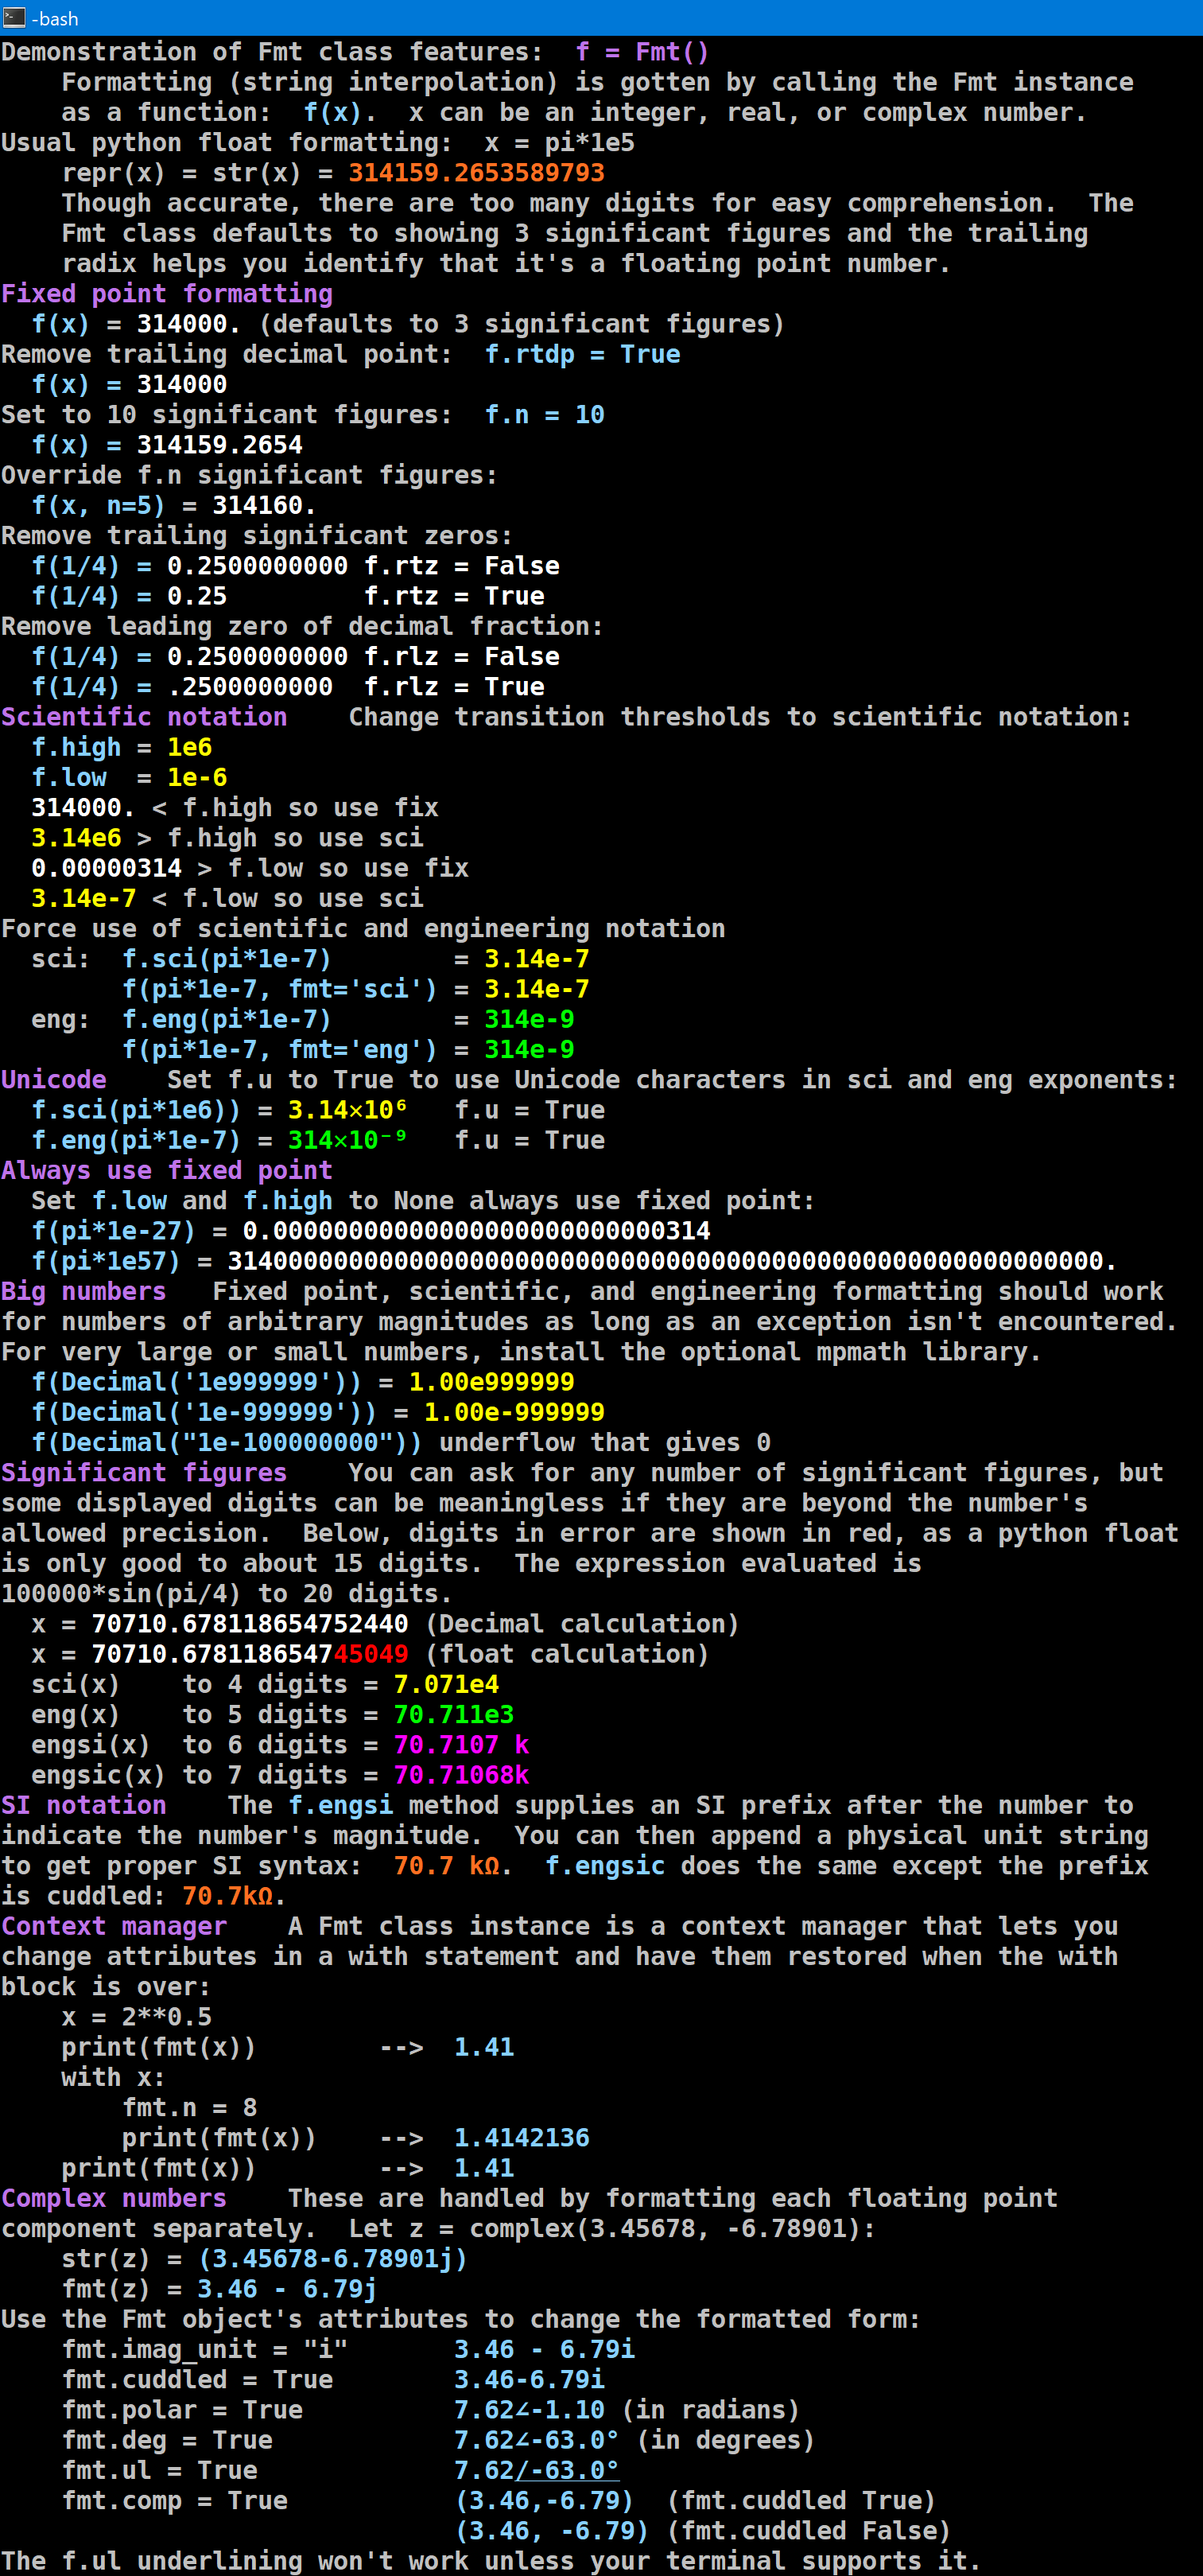
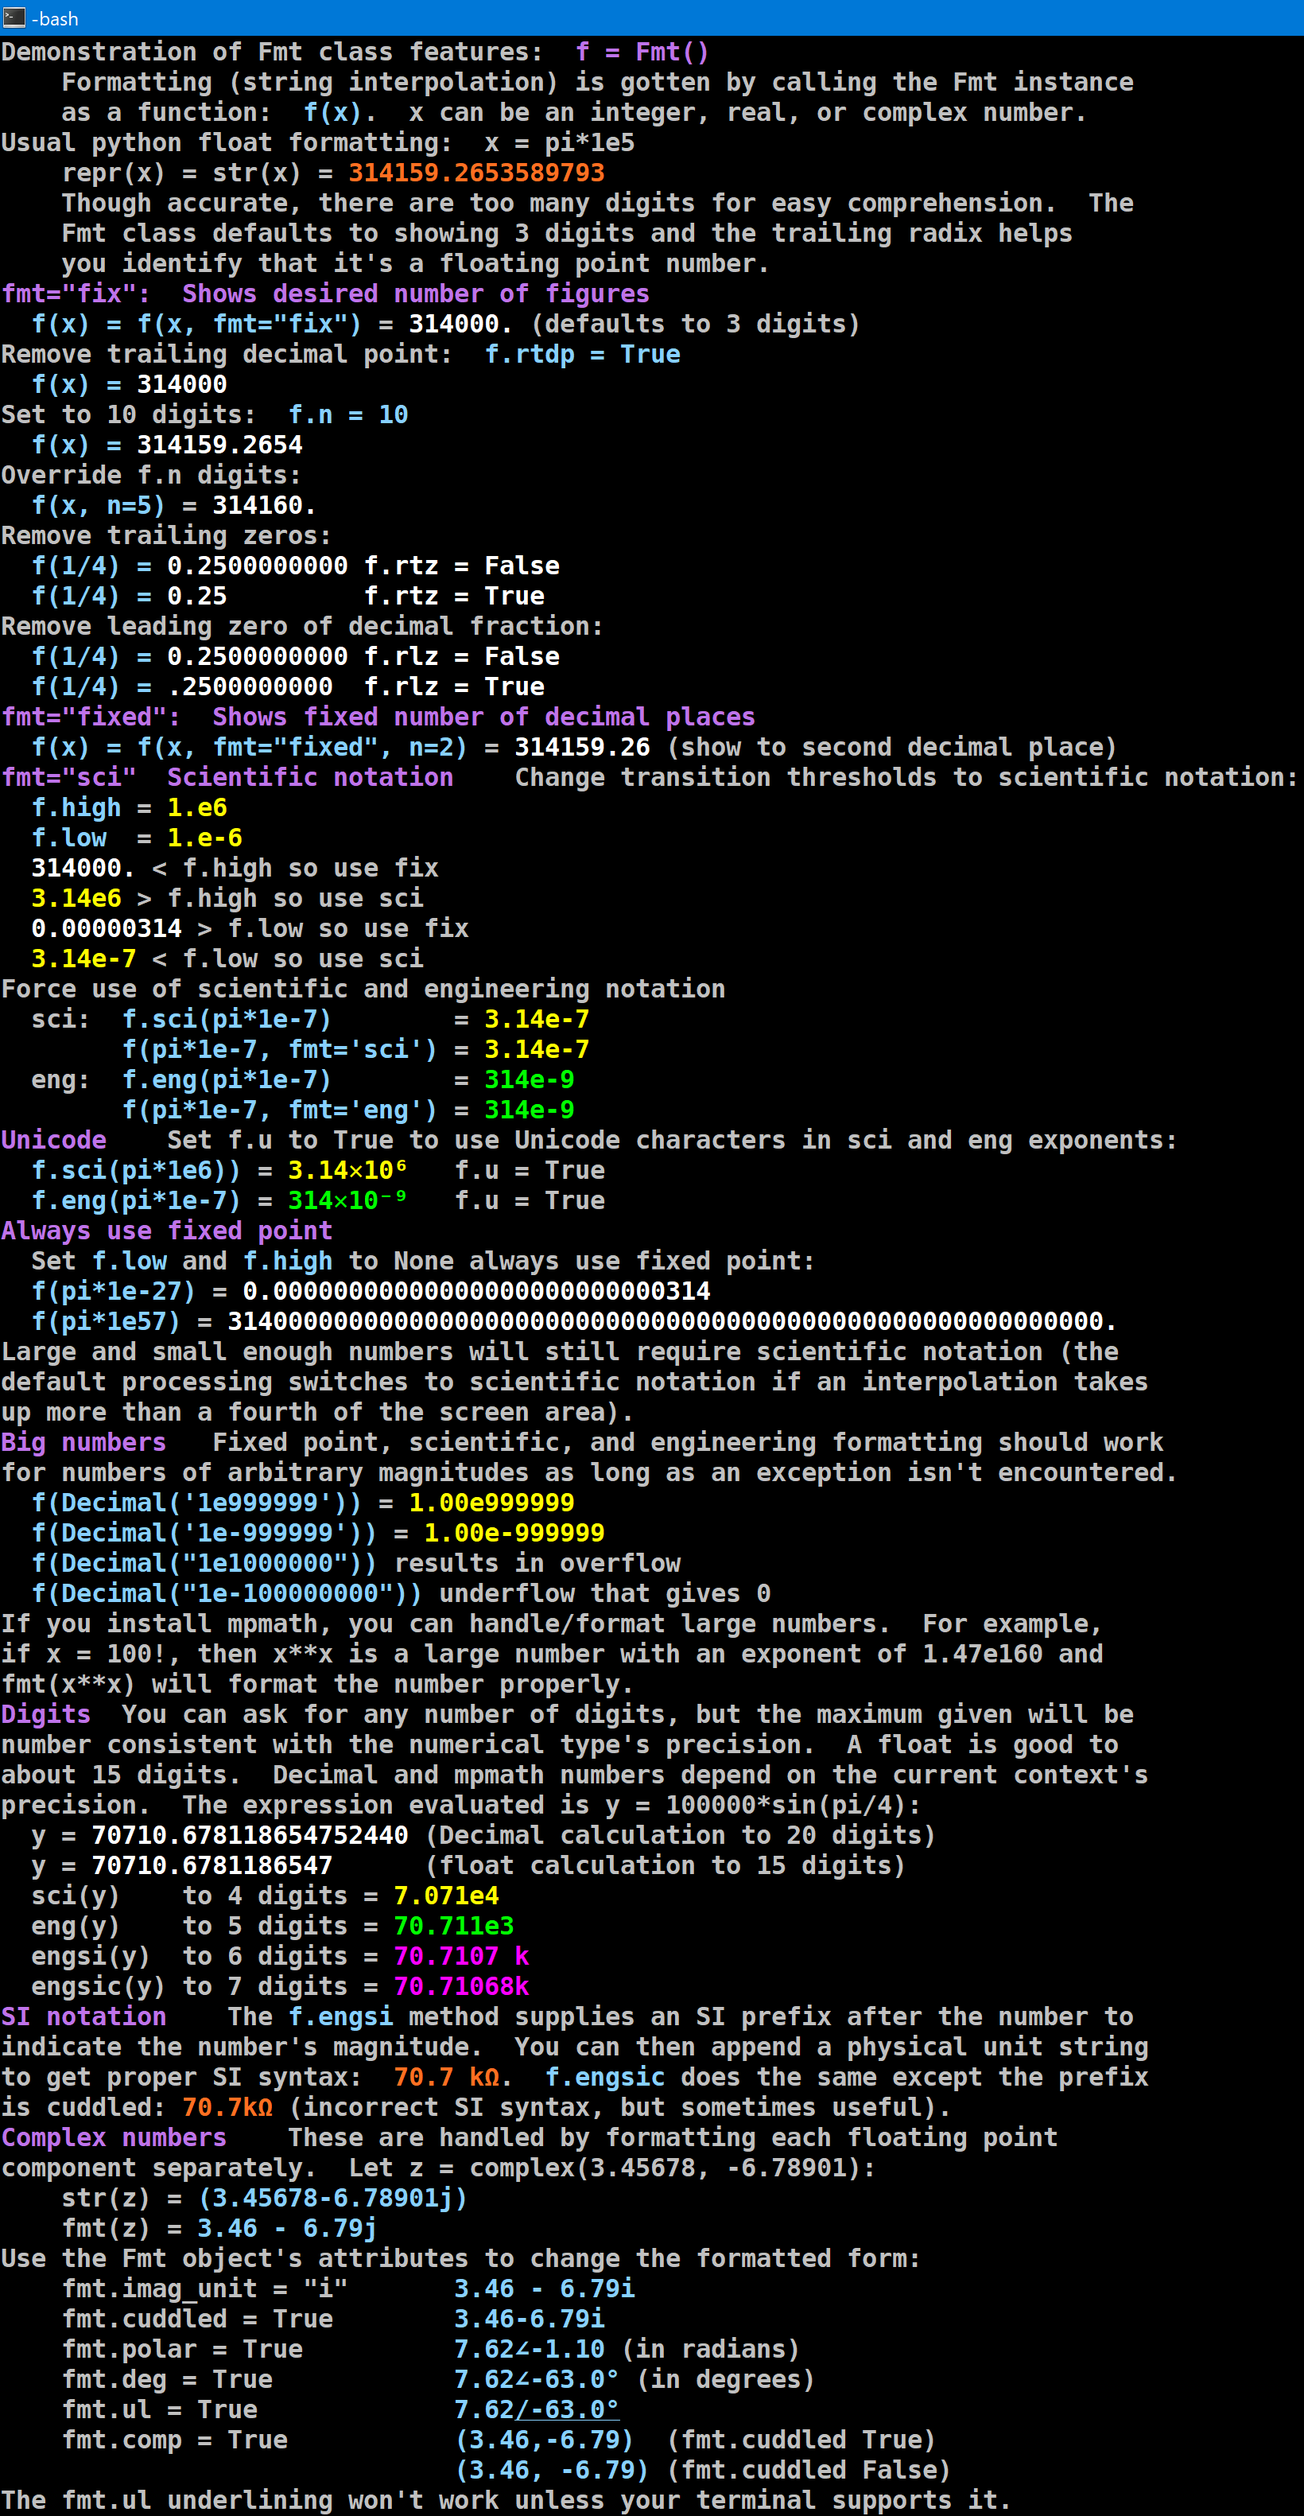
Updated

Changed region(s): [[0.0, 0.0, 0.963, 1.0], [0.9319, 0.5577, 0.963, 0.6197], [0.9009, 0.2788, 0.9319, 0.3098]]

diff --git a/fmt.py b/fmt.py
@@ -9,70 +9,68 @@
         - 100!**100! can be calculated with mpmath, but the exponent is
           1.47e160.  Need to develop a notation to handle large numbers.
         - Use log: ((1.47e160))
+        - Use sci notation in exponent:  1.47e((1e160))
         - Power tower:  10↑↑n == 10**10**...**10, n times
         - "order" of magnitude n:  how many times you have to take log of a
           number to get a result between 1 and 10.  Could call this
           "biglog".  See https://en.wikipedia.org/wiki/Super-logarithm
- 
-- Later
     - width
+        - Change brief attribute to width attribute; remove width from
+          function calls.
+            - Set to 0 for normal behavior.  Larger integer specifies the
+              desired width.
         - Need an algorithm to make interpolations fit in a desired width.
           Must be on a best effort basis, as it will be impossible for some
-          numbers (e.g., the above 100!**100!).
-    - unc
-        - fix(), sci(), etc. should use a new keyword:  'unc'.  unc will be
-          interpreted as an uncertainty and use the standard uncertainty
-          interpolation such as '3.14(3)' (unc must be the same number type
-          as the value passed in).  To handle the case where this can
-          represent a roundoff error, a boolean ro keyword is used; when
-          True, you get '3.14[3]' like the uncertainty short-hand notation,
-          but this denotes an estimated interval number.
+          numbers.  Example 100!**100! won't fit into e.g. 60 columns
+          because the exponent is 160 digits long.
+            - See notes above about large number notations
+        - Typical abbreviation will use ellipsis ⋯ (U+22EF) and truncate
+          middle digits to get things to fit
     - Angle measures
-        - deg rad grad rev.  Need to come up with a usable display notation
-          for polar coordinates.  ◣ or ▶ might be good for grad and ⊚ ⏺ ⬤
-          ● Ⓡ ⭙ might be good for revolutions (make sure it isn't confused
-          with a digit).
- 
+        - Add grads and revolutions for polar display.
+            - 7.62∠-1.10        Radians
+            - 7.62〈-1.10       Radians     *
+            - 7.62 〈 -1.10     Radians     *
+            - 7.62∠-63.0°       Degrees
+            - 7.62〈-63.0°      Degrees     *
+            - 7.62 〈 -63.0°    Degrees     *
+            - 7.62▼-70.0        Grads
+            - 7.62《-70.0       Grads       *
+            - 7.62 《 -70.0     Grads       *
+            - 7.62⬤-0.175       Revolutions
+            - 7.62⚫-0.175      Revolutions *
+            - 7.62 ⚫ -0.175    Revolutions *
+        - A core need is visual clarity to reduce the chance of a reading
+          error.  I'm leaning towards the ones marked with *.  I'd also
+          then eliminate the underlining form.  Could also honor the
+          cuddled setting.
+        - For plain ASCII, could use
+            - 7.62 (-1.10 rad)
+            - 7.62 (-63.0 deg)
+            - 7.62 (-70.0 grad)
+            - 7.62 (-0.175 rev)
 ---------------------------------------------------------------------------
 class Fmt:  Format floating point numbers
+
+    This module provides string interpolation ("formatting") for integer,
+    floating point, and complex number types.  A Fmt instance can format
+    int, float, decimal.Decimal, mpmath.mpf, and fraction.Fraction number
+    types.
+ 
     Run the module as a script to see example output.  See Terminal Notes
     below.
- 
-    This module provides string interpolation ("formatting") for integer,
-    floating point, and complex number types.  str(float(math.pi)) returns
-    '3.141592653589793', which contains too many digits for casual
-    interpretation.  This module's convenience instance fmt will format pi
-    as fmt(math.pi) = '3.14', which allows easier interpretation.
- 
-    A Fmt instance can format int, float, decimal.Decimal, mpmath.mpf, and
-    fraction.Fraction number types.
- 
-    IMPORTANT
- 
-        Fmt is deliberately not thread-safe.  This means if you call the
-        methods of the same instance in two different threads, you'll get
-        unpredictable and probably wrong results.  This could be fixed by
-        e.g. using a thread.Lock instance and turning Fmt into a context
-        manager, but the cost is that Fmt is then not able to be pickled.
-        Most of my applications are single-threaded and I prefer to have
-        the ability to pickle things if desired.
- 
-        One solution to a multithreading application is to give each thread
-        its own Fmt() instance.  An easy way to do this is to create one
-        instance, then make a copy using the copy() method.
- 
-    Methods
-        - reset() to put instance in default state
-        - fmtint() to format an integer
  
     The attributes of a Fmt instance provide more control over the
     formatting:
  
-        n       Sets the number of displayed digits.
+        n       Sets the number of displayed digits.  For floats, the
+                maximum is 15; for mpmath and Decimal, it's controlled by
+                the context's precision.
         default String for default floating point formatting (fix, fixed,
                 sci, eng, engsi, engsic)
         int     How to format integers (None is str(), dec, hex, oct, bin)
-        brief   If True, fit string on one line if possible.
+        brief   If True, fit string on one line if possible.  (Not
+                implemented yet)
         dp      Sets the radix (decimal point) string (use '.' or ',').
         low     Numbers below this value are displayed with scientific
                 notation.  None means all small numbers are displayed
@@ -104,6 +102,19 @@ class Fmt:  Format floating point numbers
           number of digits allowed by the type.  For Decimal and mpmath
           numbers, this is determined by the relevant context.
  
+    Thread safety
+        Fmt is deliberately not thread-safe.  This means if you call the
+        methods of the same instance in two different threads, you'll get
+        unpredictable and probably wrong results.  This could be fixed by
+        e.g. using a thread.Lock instance and turning Fmt into a context
+        manager, but the cost is that Fmt is then not able to be pickled.
+        Most of my applications are single-threaded and I prefer to have
+        the ability to pickle things if desired.
+ 
+        One solution to a multithreading application is to give each thread
+        its own Fmt() instance.  An easy way to do this is to create one
+        instance, then make a copy using the copy() method.
+ 
     Terminal Notes
         This script is intended to be used with other scripts in the plib
         directory.  You can get the needed tools at
@@ -121,7 +132,6 @@ class Fmt:  Format floating point numbers
         methods).  Then the Fmt instance uses the TakeApart instance to
         supply the needed parts of the number and builds the desired
         interpolation string.
- 
  
 '''
 if 1:   # Header
@@ -189,8 +199,12 @@ if 1:   # Utility
             else:
                 raise AssertionError(msg)
 class TakeApart:
-    '''Handles int, float, Decimal, mpf, and Fractions.  This code is not
-    thread-safe, so only use one instance with one thread.
+    '''Take apart a number into its components to prepare for string
+    interpolation.  Handles int, float, Decimal, mpf, and Fractions.  
+    The core implementation is in disassemble(), which depends on
+    prepare().
+ 
+    This code is not thread-safe, so only use one instance with one thread.
     '''
     def __init__(self):
         self._thread_id = threading.get_ident()
@@ -572,6 +586,7 @@ class TakeApart:
         if len(dq) == n + 1:
             dq.pop()
         return dq
+
 class Fmt:
     def __init__(self, n=3):
         'n is the number of digits to format to'
@@ -606,11 +621,12 @@ class Fmt:
             # These set the points where fixed mode switches to scientific
             # notation.  Standard python uses 1e-5 and 1e15.  Set either of
             # these to None to disable switching to scientific notation
-            # (note you can get very large strings this way.
-            # NOTE:  these must be floats because they are compared to both
-            # mpf and Decimal types.  This is a compromise, as it will
-            # break on high and low values beyond the range of a float (but
-            # practically this will never happen).
+            # (you can get large strings this way).  NOTE:  these must be
+            # floats because they are compared to both mpf and Decimal
+            # types.  This is a compromise, as it will break on high and
+            # low values beyond the range of a float.  However, since float
+            # exponents go over the range of about 308, this will likely
+            # never happen.
             self._low_init = 1e-4
             self._high_init = 1e6
         # Key to _SI_prefixes dict is exponent//3
@@ -1272,7 +1288,6 @@ class Fmt:
                         sig.insert(e + 1, self.dp)
                         k += 1
                 sig.insert(k, us)
-
         return ''.join(sig)
     def Real(self, value, fmt=None, n=None, width=None) -> str:
         if width is not None:
